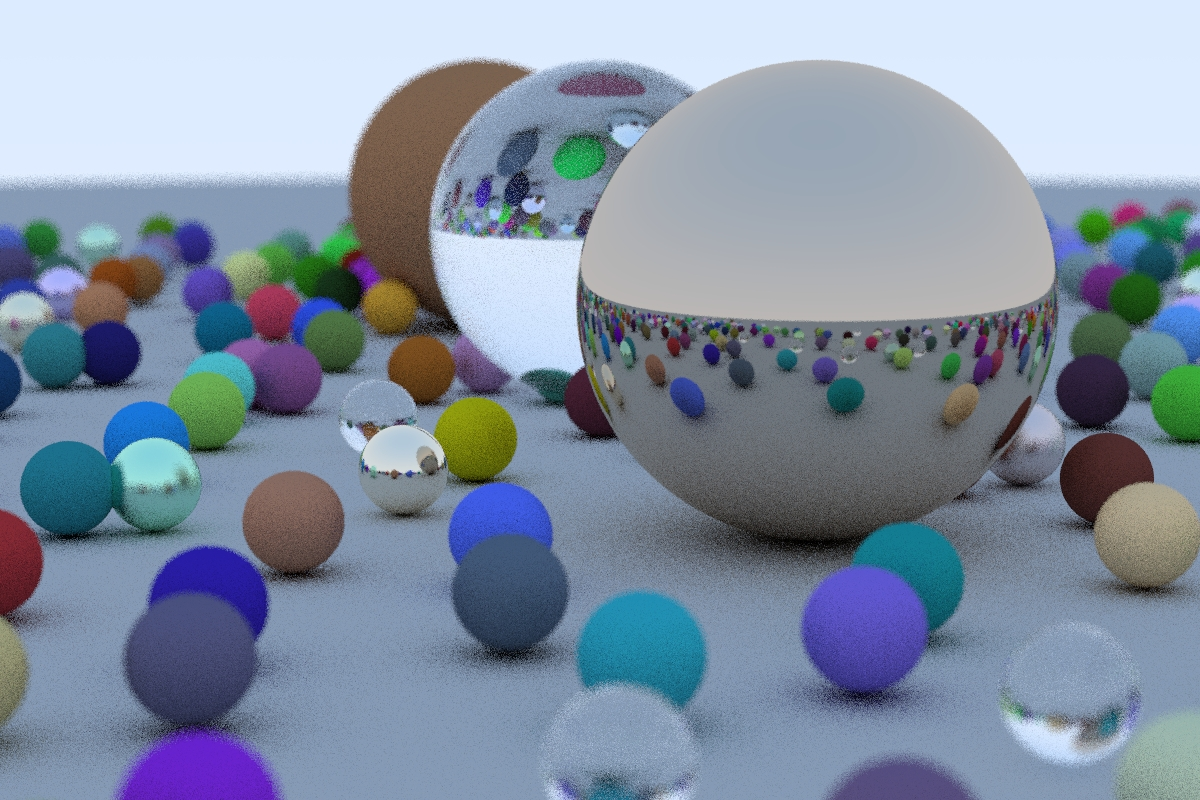
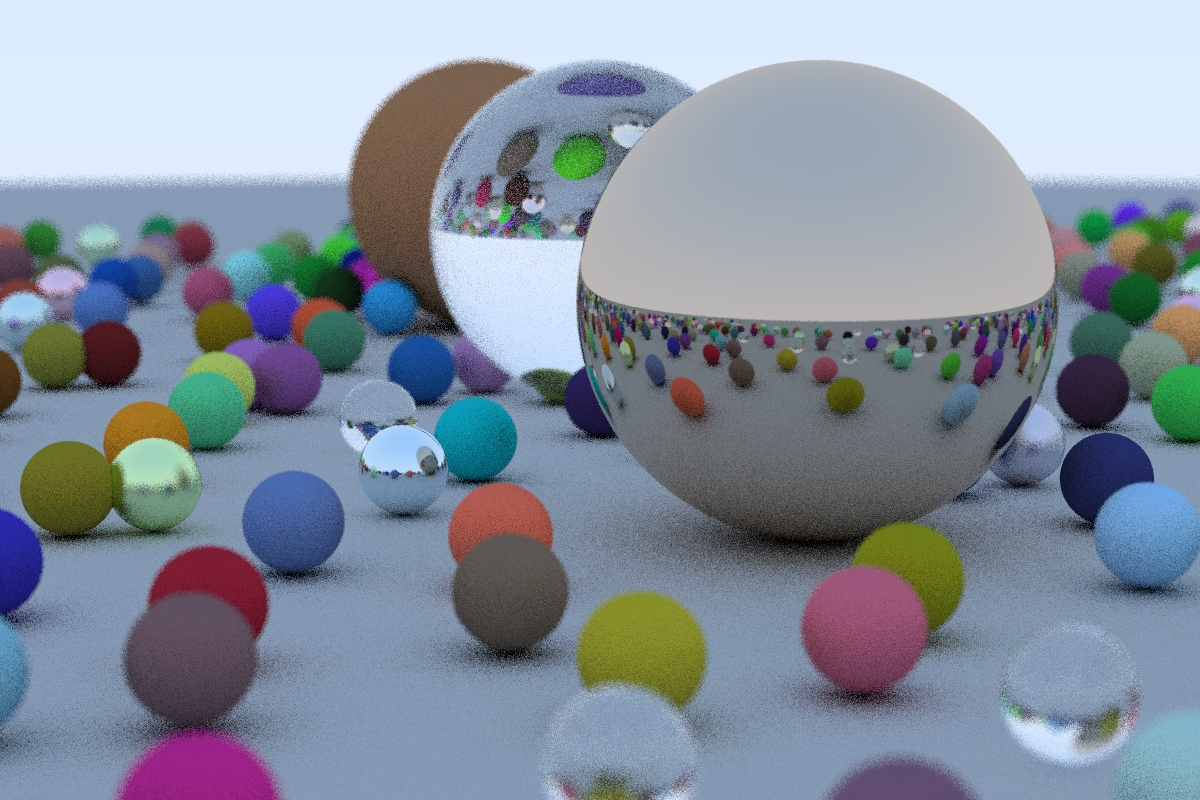
refactored random_scene drand48 calls to match daedalus-compute

Changed region(s): [[0.0, 0.0625, 1.0, 1.0], [0.8325, 0.8438, 1.0, 1.0], [0.4625, 0.9375, 0.5858, 1.0]]

diff --git a/main.cc b/main.cc
@@ -56,11 +56,25 @@ hitable *random_scene() {
             vec3 center(a+0.9*drand48(),0.2,b+0.9*drand48()); 
             if ((center-vec3(4,0.2,0)).length() > 0.9) { 
                 if (choose_mat < 0.8) {  // diffuse
-                    list[i++] = new sphere(center, 0.2, new lambertian(vec3(drand48()*drand48(), drand48()*drand48(), drand48()*drand48())));
+
+                    float r0 = drand48();
+                    float r1 = drand48();
+                    float r2 = drand48();
+                    float r3 = drand48();
+                    float r4 = drand48();
+                    float r5 = drand48();
+
+                    list[i++] = new sphere(center, 0.2, new lambertian(vec3(r0*r1, r2*r3, r4*r5)));
                 }
                 else if (choose_mat < 0.95) { // metal
+
+                    float r0 = drand48();
+                    float r1 = drand48();
+                    float r2 = drand48();
+                    float r3 = drand48();
+
                     list[i++] = new sphere(center, 0.2,
-                            new metal(vec3(0.5*(1 + drand48()), 0.5*(1 + drand48()), 0.5*(1 + drand48())),  0.5*drand48()));
+                            new metal(vec3(0.5*(1 + r0), 0.5*(1 + r1), 0.5*(1 + r2)),  0.5*r3));
                 }
                 else {  // glass
                     list[i++] = new sphere(center, 0.2, new dielectric(1.5));
